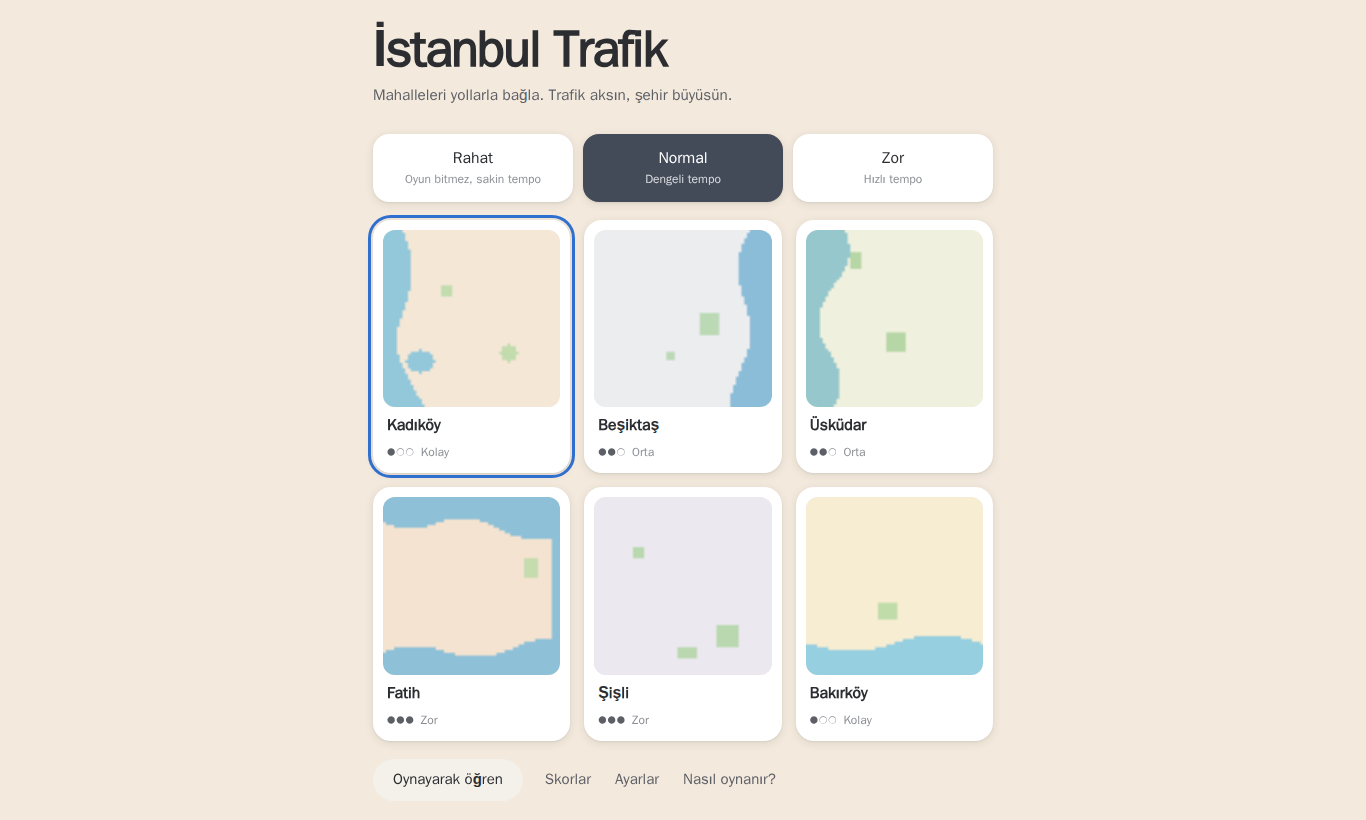
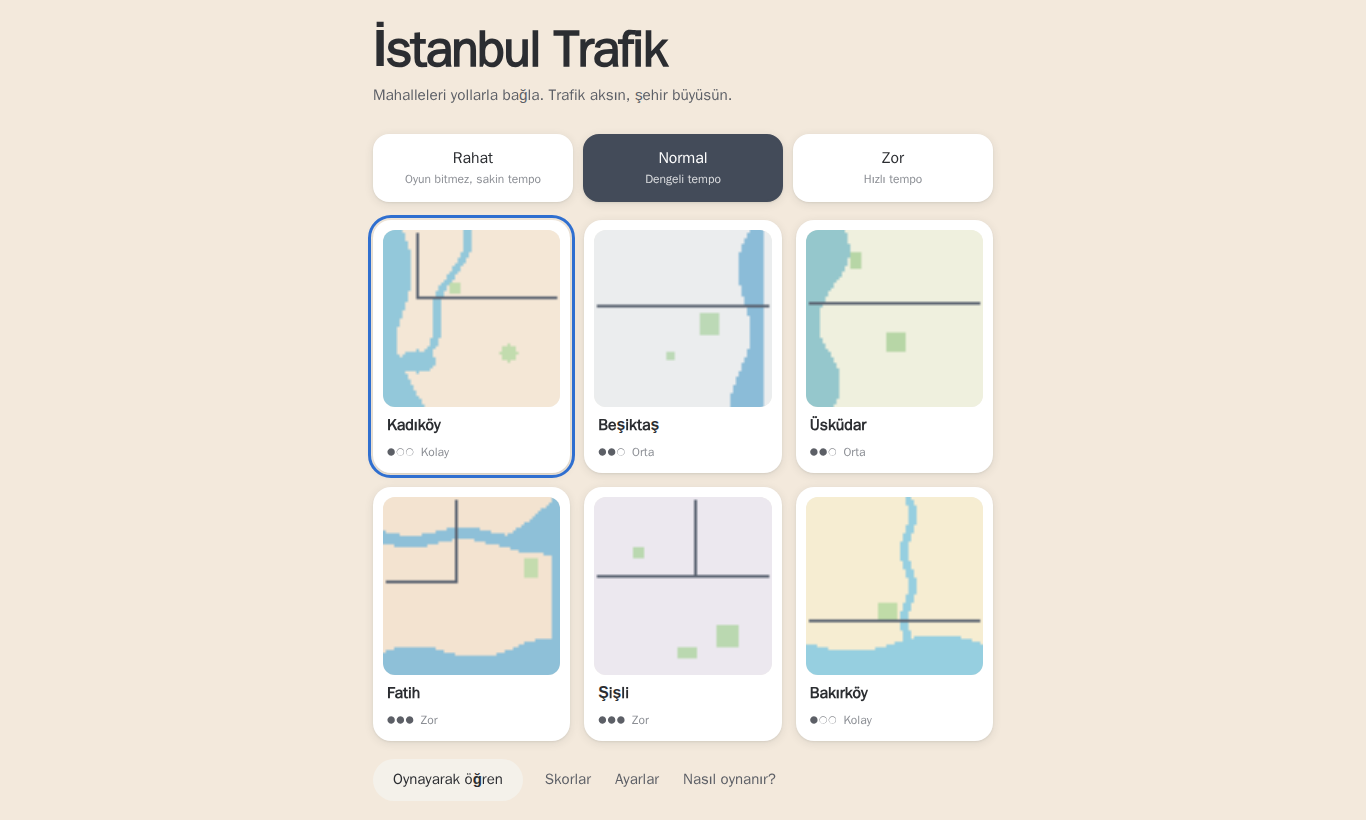
Otoyol kavşakları, ışık ipucu, README güncellemesi
- Sokak otoyola kavisli bordürlü bir ağızla bağlanır; kenar çizgisi kavşakta
  açılır, asfalt aynı renktedir. Ana yol önceliklidir, yan yol yol verir.
- Kavşak kilitlenince ya da kuyruk uzayınca bir kez trafik ışığı önerilir.
- README: 'Oyunda neler var?' bölümü, yeni ekran görüntüleri, güncel sınırlamalar.

diff --git a/src/gameplay/game-session.ts b/src/gameplay/game-session.ts
@@ -7,6 +7,7 @@ import {
   type ModeRules,
   PLAYFIELD,
   type ResourceKind,
+  TIPS,
   UPGRADES,
 } from '../core/constants';
 import { EventBus } from '../core/event-bus';
@@ -139,6 +140,7 @@ export class GameSession {
   pendingUpgrades: Upgrade[] | null = null;
   summary: GameSummary | null = null;
   private undoStack: RoadSnapshot[] = [];
+  private lightTipShown = false;
   /** Separate pieces of dry ground; buildings on different pieces need a bridge. */
   private readonly regions: Int32Array;
   /** Districts without water never offer bridges. */
@@ -177,6 +179,24 @@ export class GameSession {
       lights: ECONOMY.startLights,
     };
     this.unsubscribers.push(this.sim.events.on('tripCompleted', () => this.score.onCompleted()));
+    this.unsubscribers.push(this.sim.events.on('gridlock', () => this.lightTip(true)));
+  }
+
+  /** Shown once per game, when a junction gets crowded and a light could help. */
+  private lightTip(gridlock: boolean): void {
+    if (this.lightTipShown || this.resources.lights <= 0) return;
+    const g = this.sim.grid;
+    let open = false;
+    for (const [cell, node] of this.sim.graph.nodes)
+      if (node.degree >= 3 && g.signal[cell] === 0) open = true;
+    if (!open) return;
+    this.lightTipShown = true;
+    this.events.emit('notice', {
+      kind: 'info',
+      text: gridlock
+        ? 'Bir kavşak kilitlendi. İkinci bir yol aç ya da kavşağa trafik ışığı koy (Işık).'
+        : 'Kuyruk uzuyor: kalabalık kavşağa trafik ışığı koyabilirsin (Işık).',
+    });
   }
 
   start(): void {
@@ -196,6 +216,9 @@ export class GameSession {
 
     const week = Math.floor(time / ECONOMY.weekLength) + 1;
     if (week > this.week) this.startWeek(week);
+
+    if (this.sim.tick % 20 === 0 && this.sim.queues.snapshot.longestQueue >= TIPS.queueForLight)
+      this.lightTip(false);
 
     if (time >= this.nextGrowthAt) {
       this.growCity();

diff --git a/tests/unit/signals.test.ts b/tests/unit/signals.test.ts
@@ -4,7 +4,7 @@ import type { Building } from '../../src/core/world-state';
 import { GameSession } from '../../src/gameplay/game-session';
 import { eraseRoad, toggleSignal, UNLIMITED, noResources } from '../../src/map/road-editor';
 import { axisOf } from '../../src/traffic/junction-controller';
-import { addBuilding, addTrip, assertNoOverlap, makeSim, road, runFor, testGrid } from '../helpers';
+import { addBuilding, addTrip, assertNoOverlap, cellPath, makeSim, road, runFor, testGrid } from '../helpers';
 
 /** A plain crossing with straight traffic on both axes; optionally signalled. */
 function crossing(withLight: boolean, trips: number) {
@@ -153,5 +153,25 @@ describe('traffic lights', () => {
     // ...cars from the street that go in while highway traffic is near have given way first.
     expect(street.length).toBeGreaterThan(0);
     expect(Math.max(...street)).toBeLessThanOrEqual(JUNCTION.yieldSpeed + 0.5);
+  });
+
+  it('suggest a light once when a junction locks up', () => {
+    const s = new GameSession({ districtId: 'kadikoy', seed: 8 });
+    const notes: string[] = [];
+    s.events.on('notice', (n) => notes.push(n.text));
+    // No junction yet: nothing to suggest.
+    s.sim.events.emit('gridlock', []);
+    expect(notes).toHaveLength(0);
+    const b = s.sim.buildings;
+    const first = cellPath(s.sim.grid, b[1]!.door, b[0]!.door);
+    s.edit('road', first);
+    // A second house joins the middle of the first road: a T junction.
+    s.edit('road', cellPath(s.sim.grid, b[2]!.door, first[Math.floor(first.length / 2)]!));
+    const junction = [...s.sim.graph.nodes.values()].some((n) => n.degree >= 3);
+    expect(junction).toBe(true);
+    s.sim.events.emit('gridlock', []);
+    s.sim.events.emit('gridlock', []);
+    expect(notes.filter((t) => t.includes('trafik ışığı'))).toHaveLength(1);
+    s.dispose();
   });
 });

diff --git a/src/core/constants.ts b/src/core/constants.ts
@@ -176,6 +176,11 @@ export const THROUGH = {
   firstDelay: 3,
 } as const;
 
+export const TIPS = {
+  /** Queue length (vehicles) at which the traffic-light tip appears once. */
+  queueForLight: 6,
+} as const;
+
 export type GameMode = 'rahat' | 'normal' | 'zor';
 
 export interface ModeRules {

diff --git a/README.md b/README.md
@@ -17,22 +17,39 @@ taşarsa çevresindeki kırmızı halka dolar ve halka tamamen dolunca oyun bite
 yolculuk sayısıdır. Her hafta yeni yol parçaları gelir ve iki ödülden biri seçilir; şehir büyüdükçe
 yeni renkler eklenir.
 
-- **Haritalar:** Kadıköy, Beşiktaş, Üsküdar, Fatih, Şişli, Bakırköy. Her biri ilçenin kıyı ve
+- **Haritalar:** Kadıköy, Beşiktaş, Üsküdar, Fatih, Şişli, Bakırköy. Her biri ilçenin kıyı, dere ve
   park düzenini sadeleştirilmiş, özgün bir ızgarada yorumlar; binalar gerçek mahalle adlarını taşır.
 - **Sunucu gerekmez:** Oyun tamamen istemci tarafında çalışır. Statik dosya sunan herhangi bir
   web sunucusu (Nginx) yeterlidir. Harici API, CDN, hesap veya telemetri yoktur.
 
+## Oyunda neler var?
+
+- **Hazır otoyollar ve şehir dışı trafiği:** D-100 (E-5), O-1, Atatürk Bulvarı ve Büyükdere Caddesi
+  haritada hazırdır, hızlıdır ve silinemez. Harita kenarından gri araçlar gelir: çoğu şehirden geçip
+  gider, bir kısmı otoyola bağladığın ev ve iş yerlerine girer, bir kısmı da iş yerlerinden çıkıp
+  otoyola katılır. Skora sayılmazlar ama yolları doldururlar.
+- **Otoyol kavşakları:** Yolunu otoyolun herhangi bir yerine bağlayabilirsin. Ana yol önceliklidir:
+  otoyoldaki araçlar yavaşlamaz, yan yoldan gelen araç boşluk bekler.
+- **Trafik ışıkları:** Işık aracını seçip bir kavşağa dokun. Kuzey–güney ve doğu–batı yönleri sırayla
+  yeşil yanar, bekleyen olmayan yönde erken döner. Işıksız kavşakta çapraz trafik varken sürücüler
+  yavaşlayıp yol verir; yoğun kavşakta ışık bu yüzden belirgin şekilde hızlıdır.
+- **Dereler ve karşı kıyılar:** Kurbağalıdere, Ayamama Deresi, Haliç ve Boğaz haritayı parçalara ayırır.
+  Şehir karşı kıyıda da büyür, oraya köprüyle ulaşırsın. Suyu olmayan Şişli'de köprü verilmez.
+- **Haftalık ödüller:** +15 yol, +5 köprü, +10 bulvar ya da +2 trafik ışığı.
+- **Kolay başlangıç:** Rahat / Normal / Zor modları, isteğe bağlı rehberli öğretici, geri al, büyüyen
+  oyun alanı ve tek seferlik ipuçları.
+
 ## Ekran görüntüleri
 
-![Kadıköy: Marmara kıyısında evler tek bir iş yerine bağlanmış](docs/screenshots/kadikoy.png)
+![Beşiktaş: O-1 otoyolu, Boğaz kıyısı ve trafik ışıklı bir kavşak](docs/screenshots/besiktas.png)
 
-| Ana menü                                                    | Fatih: Haliç kıyısı                                             |
-| ----------------------------------------------------------- | --------------------------------------------------------------- |
-| ![İlçe seçimi ve zorluk modları](docs/screenshots/menu.png) | ![Fatih'te Haliç kıyısında yol ağı](docs/screenshots/fatih.png) |
+| Otoyol kavşağı ve trafik ışığı                                                             | Bakırköy: D-100, Ayamama Deresi, Marmara                                    |
+| ------------------------------------------------------------------------------------------ | --------------------------------------------------------------------------- |
+| ![Sokağın D-100'e bağlandığı kavşak ve ışıklı kavşak](docs/screenshots/otoyol-kavsagi.png) | ![Bakırköy'de otoyol, dere köprüsü ve deniz](docs/screenshots/bakirkoy.png) |
 
-| Beşiktaş: haftalık ödül                                                        |
-| ------------------------------------------------------------------------------ |
-| ![Beşiktaş'ta yeni hafta başlarken ödül seçimi](docs/screenshots/besiktas.png) |
+| Ana menü                                                                                  |
+| ----------------------------------------------------------------------------------------- |
+| ![İlçe seçimi, zorluk modları ve otoyollu harita önizlemeleri](docs/screenshots/menu.png) |
 
 ## Gereksinimler
 
@@ -175,8 +192,11 @@ Bozuk veya uyumsuz kayıtlar uygulamayı çökertmez: güvenli varsayılanlara d
 
 ## Bilinen sınırlamalar
 
-- Tek yön motorda desteklenir ama sade arayüzde sunulmaz. Trafik ışıkları yoktur. Kavşaklar çakışma bölgesi rezervasyonuyla "en uzun bekleyen önce" kuralıyla
-  yönetilir. Mimari, ışık gibi başka kontrol politikalarının eklenmesine hazırdır (`JunctionPolicy`).
+- Tek yön motorda desteklenir ama sade arayüzde sunulmaz. Trafik ışıkları iki fazlıdır (kuzey–güney /
+  doğu–batı); ayrı sola dönüş fazı yoktur. Işıksız kavşaklar çakışma bölgesi rezervasyonu ve yol verme
+  kuralıyla yönetilir.
+- Otoyollar haritada sabittir; kavşaklar hemzemindir (rampa veya kavşaksız katılım yoktur), ana yol
+  önceliklidir.
 - Bulvar en fazla 2 şerit/yöndür. Şerit değiştirme yalnızca aynı yol parçası içinde yapılır.
   Dönüş için doğru şeride geçemeyen araç, durma çizgisinde son çare olarak yanlış şeritten döner.
 - Yol hücreleri ızgaraya bağlıdır (90° dönüşler). Su üzerinde köprü kurulabilir, ancak alt/üst geçit

diff --git a/ARCHITECTURE.md b/ARCHITECTURE.md
@@ -85,7 +85,12 @@ app ──► ui ──► rendering ──► (salt okuma) gameplay ─► traf
 - Sıralama politikası `JunctionPolicy` arayüzüyle değiştirilebilir.
 - **Yol verme:** Işıksız ve en az üç kollu bir kavşakta, çapraz yoldan 30 m içinde araç varsa (ya da
   kutuda çapraz yönden bir araç varsa) araç ancak durma çizgisine 5 m kala ve 3 m/sn altına yavaşlayınca
-  rezervasyon isteyebilir (`JUNCTION.yield*`). Çapraz trafik yoksa hızını korur.
+  rezervasyon isteyebilir (`JUNCTION.yield*`). Çapraz trafik yoksa hızını korur. Otoyol kavşaklarında
+  ana yol önceliklidir: otoyoldaki araçlar hiç yol vermez, yan sokaktan gelen araç ise yakında herhangi
+  bir araç varsa yol verir. Haritada bu kavşaklar sokağın otoyola kavisli bordürlerle açıldığı bir ağız
+  ve kenar çizgisinde boşlukla çizilir.
+- **İpucu:** Bir kavşak kilitlenince ya da kuyruk 6 araca ulaşınca, oyuncunun ışığı ve ışıksız bir
+  kavşağı varsa, oyun başına bir kez trafik ışığı önerilir.
 - **Trafik ışığı** (`grid.signal`, `SIGNAL`): Talebe duyarlı iki fazlı ışık. Kuzey–güney ve doğu–batı
   yönleri sırayla yeşil yanar. Yeşil en az 4 sn sürer; o yönde bekleyen yoksa ve diğer yönde varsa erken,
   en geç 14 sn sonra biter. Fazlar arasında kutu boşalana kadar (en az 1,5 sn) her yön kırmızıdır.
